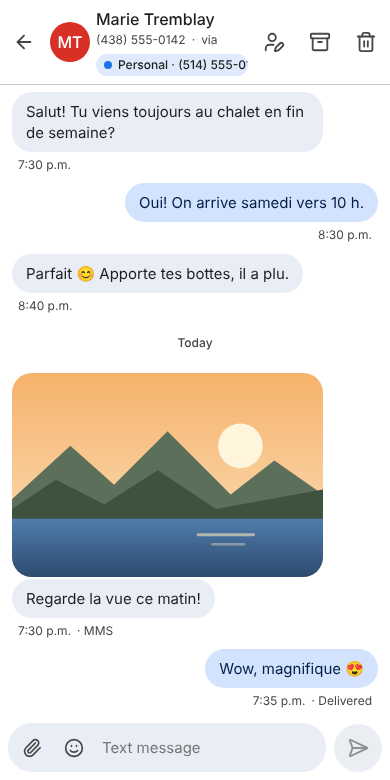
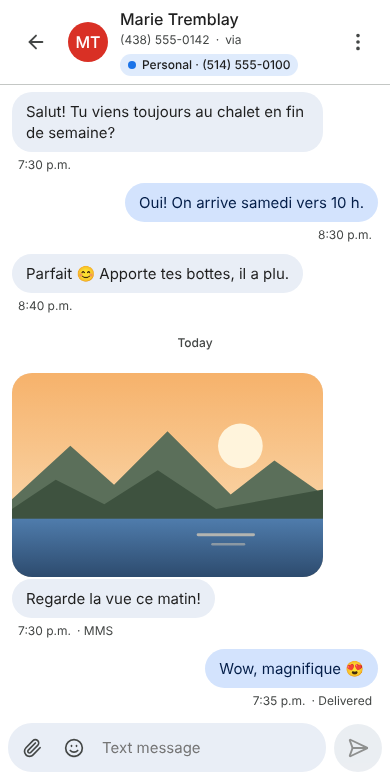
Put a conversation's actions in a ⋮ menu on phones
On phones the contact, archive and delete buttons crowded the header and
cut the name short. They now open from a single ⋮ button, as a menu that
closes with Escape or a tap elsewhere; large screens keep one button each.

Claude-Session: https://claude.ai/code/session_01Qk3wrc5rxKyqAzffoGQfRs

diff --git a/web/src/components/Thread.tsx b/web/src/components/Thread.tsx
@@ -24,7 +24,7 @@ import {
 import { Composer } from './Composer';
 import { ContactDialog } from './ContactDialog';
 import { DeleteDialog } from './DeleteDialog';
-import { Avatar, Lightbox } from './ui';
+import { Avatar, Lightbox, MenuButton } from './ui';
 import { formatPhone, isValidNanp } from '../../../shared/phone';
 import type { AttachmentDto, MessageDto } from '../../../shared/types';
 
@@ -83,6 +83,24 @@ export function Thread({ id }: { id: number }) {
     }
   };
 
+  const actions = [
+    ...(shortCode
+      ? []
+      : [
+          {
+            icon: conversation.contact ? <UserPen size={22} /> : <UserPlus size={22} />,
+            label: conversation.contact ? t('thread.editContact') : t('thread.addContact'),
+            onSelect: () => setEditingContact(true),
+          },
+        ]),
+    {
+      icon: conversation.archived ? <ArchiveRestore size={22} /> : <Archive size={22} />,
+      label: conversation.archived ? t('thread.unarchive') : t('thread.archive'),
+      onSelect: () => void toggleArchive(),
+    },
+    { icon: <Trash2 size={22} />, label: t('thread.delete'), danger: true, onSelect: () => setDeleting(true) },
+  ];
+
   return (
     <>
       <header className="thread-header">
@@ -108,27 +126,17 @@ export function Thread({ id }: { id: number }) {
             )}
           </div>
         </div>
-        {!shortCode && (
-          <button
-            className="icon-btn"
-            aria-label={conversation.contact ? t('thread.editContact') : t('thread.addContact')}
-            title={conversation.contact ? t('thread.editContact') : t('thread.addContact')}
-            onClick={() => setEditingContact(true)}
-          >
-            {conversation.contact ? <UserPen size={22} /> : <UserPlus size={22} />}
-          </button>
-        )}
-        <button
-          className="icon-btn"
-          aria-label={conversation.archived ? t('thread.unarchive') : t('thread.archive')}
-          title={conversation.archived ? t('thread.unarchive') : t('thread.archive')}
-          onClick={() => void toggleArchive()}
-        >
-          {conversation.archived ? <ArchiveRestore size={22} /> : <Archive size={22} />}
-        </button>
-        <button className="icon-btn" aria-label={t('thread.delete')} title={t('thread.delete')} onClick={() => setDeleting(true)}>
-          <Trash2 size={22} />
-        </button>
+        {/* A button each on large screens; on phones, a menu leaves the name its room. */}
+        <div className="thread-actions desktop-only">
+          {actions.map((action) => (
+            <button key={action.label} className="icon-btn" aria-label={action.label} title={action.label} onClick={action.onSelect}>
+              {action.icon}
+            </button>
+          ))}
+        </div>
+        <div className="mobile-only">
+          <MenuButton label={t('thread.more')} items={actions} />
+        </div>
       </header>
 
       <MessageList conversationId={id} messages={thread.items} hasMore={thread.hasMore} loading={thread.loading} loaded={thread.loaded} />

diff --git a/web/src/components/ui.tsx b/web/src/components/ui.tsx
@@ -5,6 +5,7 @@ import {
   Building2,
   Car,
   Dog,
+  EllipsisVertical,
   GraduationCap,
   Heart,
   House,
@@ -158,6 +159,61 @@ export function PhoneInput({
         onChange(formatted);
       }}
     />
+  );
+}
+
+export interface MenuItem {
+  icon: ReactNode;
+  label: string;
+  danger?: boolean;
+  onSelect: () => void;
+}
+
+/** A "⋮" button and the actions it lists; Escape or a tap elsewhere closes them. */
+export function MenuButton({ label, items }: { label: string; items: MenuItem[] }) {
+  const [open, setOpen] = useState(false);
+  const ref = useRef<HTMLDivElement>(null);
+  useEffect(() => {
+    if (!open) return;
+    const outside = (e: PointerEvent) => {
+      if (!ref.current?.contains(e.target as Node)) setOpen(false);
+    };
+    const onKey = (e: KeyboardEvent) => {
+      if (e.key === 'Escape') setOpen(false);
+    };
+    document.addEventListener('pointerdown', outside);
+    document.addEventListener('keydown', onKey);
+    ref.current?.querySelector<HTMLElement>('[role=menuitem]')?.focus();
+    return () => {
+      document.removeEventListener('pointerdown', outside);
+      document.removeEventListener('keydown', onKey);
+    };
+  }, [open]);
+  return (
+    <div className="menu-anchor" ref={ref}>
+      <button className="icon-btn" aria-label={label} title={label} aria-haspopup="menu" aria-expanded={open} onClick={() => setOpen((o) => !o)}>
+        <EllipsisVertical size={22} />
+      </button>
+      {open && (
+        <div className="menu" role="menu">
+          {items.map((item) => (
+            <button
+              key={item.label}
+              type="button"
+              role="menuitem"
+              className={item.danger ? 'danger' : undefined}
+              onClick={() => {
+                setOpen(false);
+                item.onSelect();
+              }}
+            >
+              {item.icon}
+              <span>{item.label}</span>
+            </button>
+          ))}
+        </div>
+      )}
+    </div>
   );
 }
 

diff --git a/web/src/styles.css b/web/src/styles.css
@@ -814,6 +814,56 @@ textarea.input {
   min-width: 0;
 }
 
+.thread-actions {
+  display: flex;
+  gap: 12px;
+}
+
+.menu-anchor {
+  position: relative;
+}
+
+.menu {
+  position: absolute;
+  top: calc(100% + 4px);
+  right: 0;
+  z-index: 20;
+  min-width: 220px;
+  padding: 8px 0;
+  border-radius: 12px;
+  background: var(--surface-container);
+  box-shadow: var(--shadow);
+}
+
+.menu [role='menuitem'] {
+  display: flex;
+  align-items: center;
+  gap: 12px;
+  width: 100%;
+  padding: 12px 16px;
+  border: none;
+  background: none;
+  color: var(--on-surface);
+  font: inherit;
+  text-align: left;
+  white-space: nowrap;
+}
+
+.menu [role='menuitem'] svg {
+  color: var(--on-surface-variant);
+}
+
+.menu [role='menuitem']:hover,
+.menu [role='menuitem']:focus-visible {
+  outline: none;
+  background: color-mix(in srgb, var(--on-surface) 8%, transparent);
+}
+
+.menu [role='menuitem'].danger,
+.menu [role='menuitem'].danger svg {
+  color: var(--error);
+}
+
 .thread-title h2 {
   margin: 0;
   overflow: hidden;
@@ -2006,17 +2056,6 @@ textarea.input {
   .main {
     margin: 0;
     border-radius: 0;
-  }
-
-  /* Back, avatar, name and three buttons share a phone's width: keep them close. */
-  .thread-header {
-    gap: 6px;
-    padding: 8px 4px;
-  }
-
-  .thread-header .icon-btn {
-    width: 40px;
-    height: 40px;
   }
 
   .messages {

diff --git a/web/src/i18n/en.ts b/web/src/i18n/en.ts
@@ -64,6 +64,7 @@ export const en: Record<MessageKey, string> = {
   'thread.unarchive': 'Unarchive',
   'thread.archived': 'Conversation archived',
   'thread.unarchived': 'Conversation unarchived',
+  'thread.more': 'More options',
   'thread.delete': 'Delete conversation',
   'thread.deleted': 'Conversation deleted',
   'thread.messageDeleted': 'Message deleted',

diff --git a/web/src/i18n/fr.ts b/web/src/i18n/fr.ts
@@ -62,6 +62,7 @@ export const fr = {
   'thread.unarchive': 'Désarchiver',
   'thread.archived': 'Conversation archivée',
   'thread.unarchived': 'Conversation désarchivée',
+  'thread.more': 'Plus d’options',
   'thread.delete': 'Supprimer la conversation',
   'thread.deleted': 'Conversation supprimée',
   'thread.messageDeleted': 'Message supprimé',

diff --git a/CHANGELOG.md b/CHANGELOG.md
@@ -5,7 +5,7 @@ All notable changes to this project. Versions follow [Semantic Versioning](https
 ## Unreleased
 
 - **Deleting messages and conversations.** Tap a message to delete it, or use the bin in a conversation's header to delete it all. Deleted texts leave the portal for good, on every device, and checking VoIP.ms does not bring them back; a new text brings a deleted conversation back, with that text only. The confirmation offers to delete them at VoIP.ms too (off by default, and for good), which the server does in the background, one message at a time, trying again after a network error.
-- On phones, the conversation header keeps its buttons closer together, so the name is not cut short.
+- On phones, a conversation's actions (contact, archive, delete) are in a ⋮ menu, so its name keeps its room in the header.
 
 ## 1.4.0 (2026-10-17)
 
